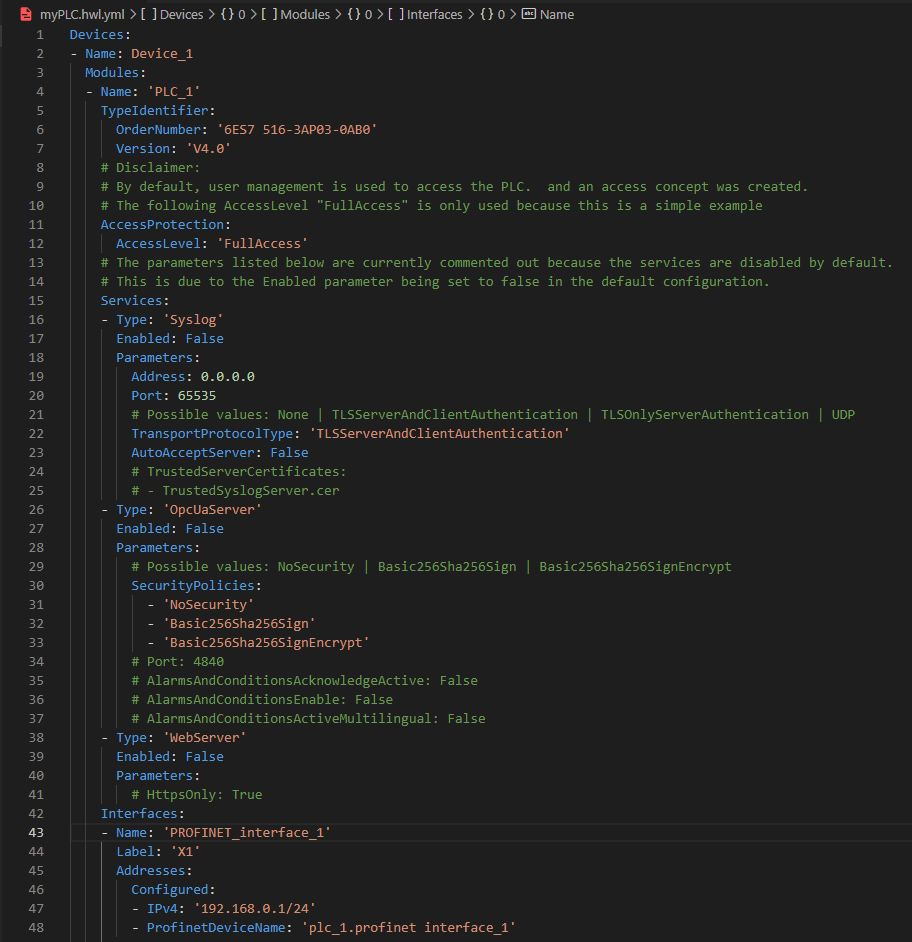
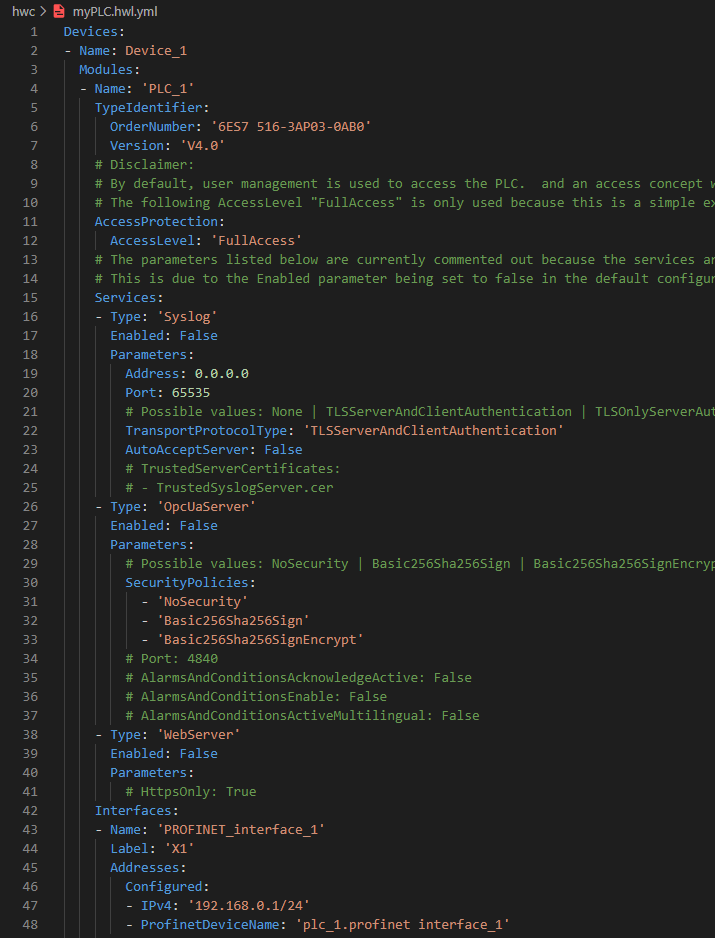
change pictures and clean up

diff --git a/03_hardware_configuration/slides/slides.md b/03_hardware_configuration/slides/slides.md
@@ -38,19 +38,17 @@ Agenda
   </h2>
 </header>
 
-<div class="grid-two-col-eq">
   <div class="flex-col justify-center">
     <p>After you completed this training section you will </p>
         <ul>
             <li>Basic knowledge over hardware configuration</li>
             <li>Know how to insert hardware devices in project</li>
             <li>Using templates in hardware context</li>
-            <li>Able to administrate Users over User Managment</li>
-            <li>Hardware basic setting assignment</li>
+            <li>Able to administrate Security Settings and Users</li>
+            <li>Know how to assign the Hardware Device Identifiers</li>
             <li>Diagnostics in the hardware environment</li>
         </ul>
     <br>
-  </div>
 </div>
 
 ---
@@ -334,7 +332,6 @@ A masking of the values that can be entered. If, for example, the assembly
     <h2>IT Like Hardware Engineer</h2>
     <h3>Security Settings</h3>
 </header>
-
   <div class="flex-col justify-center">
      <p>Like all Siemens software, Simatic AX also represents the principle of "Security by default". 
         Accordingly, the security aspects must be set up in the project before loading the PLC.<br></p>
@@ -359,18 +356,17 @@ A masking of the values that can be entered. If, for example, the assembly
 <div class="grid-two-col-eq">
     <div class="flex-col justify-center">
         <p>
-        In order to be able to create hardware for a plc, the first step we need to take is how the hardware configuration is described in a textual declaration for a IT like context.</p>
+        To create the appropriate security settings for a PLC, you first need a PLC description file. The PLC is the central element in a hardware configuration, to which all other modules are interconnected. The basic configuration can now be created, for example, by generating a template from a PLC in a hardware support package.</p>
         <br>
-            <p>Security consists of two aspects: Authentication and Authorization:
+            <p>In this file you can also set some basic settings in relation of Authentication and Authorization:
                 <ul>
-                    <li>Authentication ensures that you are communicating with the expected PLC</li>
-                    <li>Authorization ensures operations are only performed by users permitted to do so.</li>
+                    <li>Authentication: The services can be switched on here, such as OPCUA / Webserver</li>
+                    <li>Authorization: The basic protection level is set here.</li>
                 </ul>
             </p>
         <br>
-        <p>The devices and dependent modules, including all properties, can be easily defined and set.</p>
     </div>
-    <img style="height: 300px; width: auto" src="./img/hwl-yml-file.png" />
+    <img style="height: 400px; width: auto" src="./img/hwl-yml-access.png" />
 </div>
 
 <div class="grid-slide-ressources">
